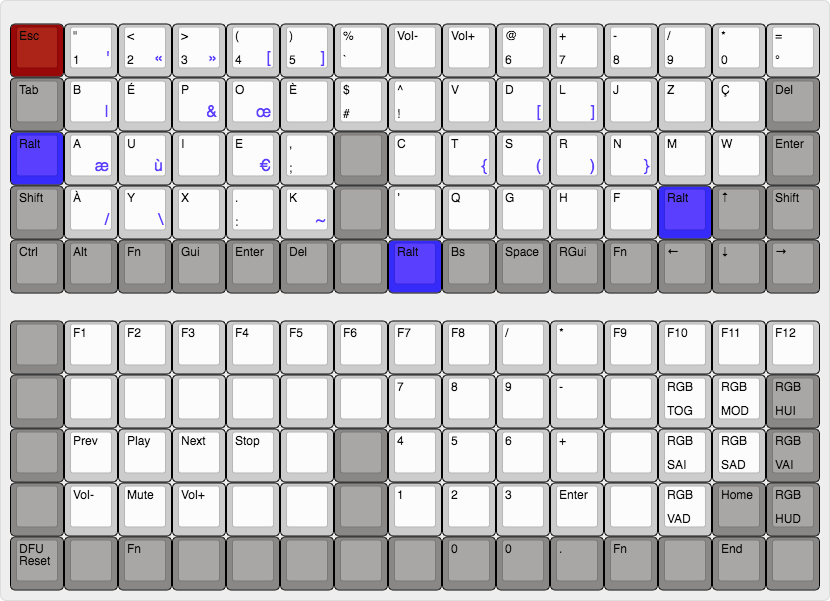
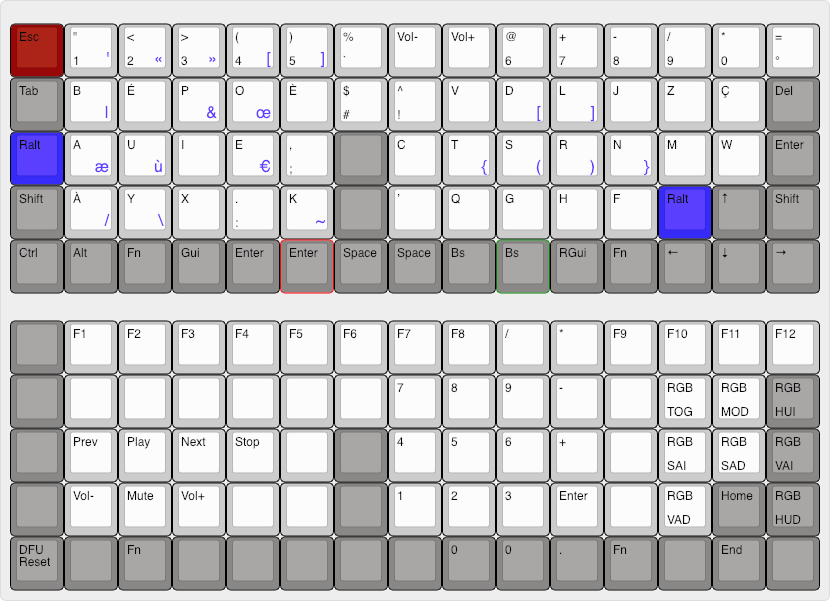
Modification du layout

diff --git a/layout/c4software_bepo/qmk_layout/keymap.c b/layout/c4software_bepo/qmk_layout/keymap.c
@@ -32,7 +32,7 @@ const uint16_t PROGMEM keymaps[][MATRIX_ROWS][MATRIX_COLS] = {
  * |--------+--------+--------+--------+--------+--------+--------+--------+--------+--------+--------+--------+--------+--------+--------|
  * | LSHIFT | A_GRAVE| Y      | X      | .      | K      |        | ’      | Q      | G      | H      | F      | RALT   | UP     | RSHIFT |
  * |--------+--------+--------+--------+--------+-----------------+--------+--------+--------+--------+--------+--------+--------+--------|
- * | LCTRL  | LALT   | FN     | LGUI   | ENTER  | DEL    |        | RALT   | BACKSP | SPACE  | RGUI   | FN     | LEFT   | DOWN   | RIGHT  |
+ * | LCTRL  | LALT   | FN     | LGUI   | ENTER  | ENTER  | SPACE  | SPACE  | BACKSP | BACKSP | RGUI   | FN     | LEFT   | DOWN   | RIGHT  |
  * '--------------------------------------------------------------------------------------------------------------------------------------'
  */
 
@@ -41,7 +41,7 @@ const uint16_t PROGMEM keymaps[][MATRIX_ROWS][MATRIX_COLS] = {
   { KC_TAB,  BP_B,       BP_E_ACUTE, BP_P,    BP_O,    BP_E_GRAVE, BP_DOLLAR,  BP_DCRC, BP_V,    BP_D,    BP_L,    BP_J,     BP_Z,    BP_CCED,  KC_DEL   },
   { KC_RALT, BP_A,       BP_U,       BP_I,    BP_E,    BP_COMMA,   KC_TRNS,    BP_C,    BP_T,    BP_S,    BP_R,    BP_N,     BP_M,    BP_W,     KC_ENT   },
   { KC_LSFT, BP_A_GRAVE, BP_Y,       BP_X,    BP_DOT,  BP_K,       KC_TRNS,    BP_APOS, BP_Q,    BP_G,    BP_H,    BP_F,     KC_RALT, KC_UP,    KC_RSFT  },
-  { KC_LCTL, KC_LALT,    MO(_FN),    KC_LGUI, KC_ENT,  KC_DEL,     KC_TRNS,    KC_RALT, KC_BSPC, KC_SPC,  KC_RGUI, MO(_FN), KC_LEFT,  KC_DOWN,  KC_RGHT  },
+  { KC_LCTL, KC_LALT,    MO(_FN),    KC_LGUI, KC_ENT,  KC_ENT,     KC_SPC,     KC_SPC,  KC_BSPC, KC_BSPC, KC_RGUI, MO(_FN), KC_LEFT,  KC_DOWN,  KC_RGHT  },
  },
 
 /* FUNCTION

diff --git a/layout/c4software_bepo/qmk_layout/README.md b/layout/c4software_bepo/qmk_layout/README.md
@@ -13,7 +13,7 @@ Layout for Bépo Dev
  * |--------+--------+--------+--------+--------+--------+--------+--------+--------+--------+--------+--------+--------+--------+--------|
  * | LSHIFT | A_GRAVE| Y      | X      | .      | K      |        | ’      | Q      | G      | H      | F      | RALT   | UP     | RSHIFT |
  * |--------+--------+--------+--------+--------+-----------------+--------+--------+--------+--------+--------+--------+--------+--------|
- * | LCTRL  | LALT   | FN     | LGUI   | ENTER  | DEL    |        | RALT   | BACKSP | SPACE  | RGUI   | FN     | LEFT   | DOWN   | RIGHT  |
+ * | LCTRL  | LALT   | FN     | LGUI   | ENTER  | ENTER   | SPACE | SPACE  | BACKSP | BACKSP | RGUI   | FN     | LEFT   | DOWN   | RIGHT  |
  * '--------------------------------------------------------------------------------------------------------------------------------------'
  */
  ```
